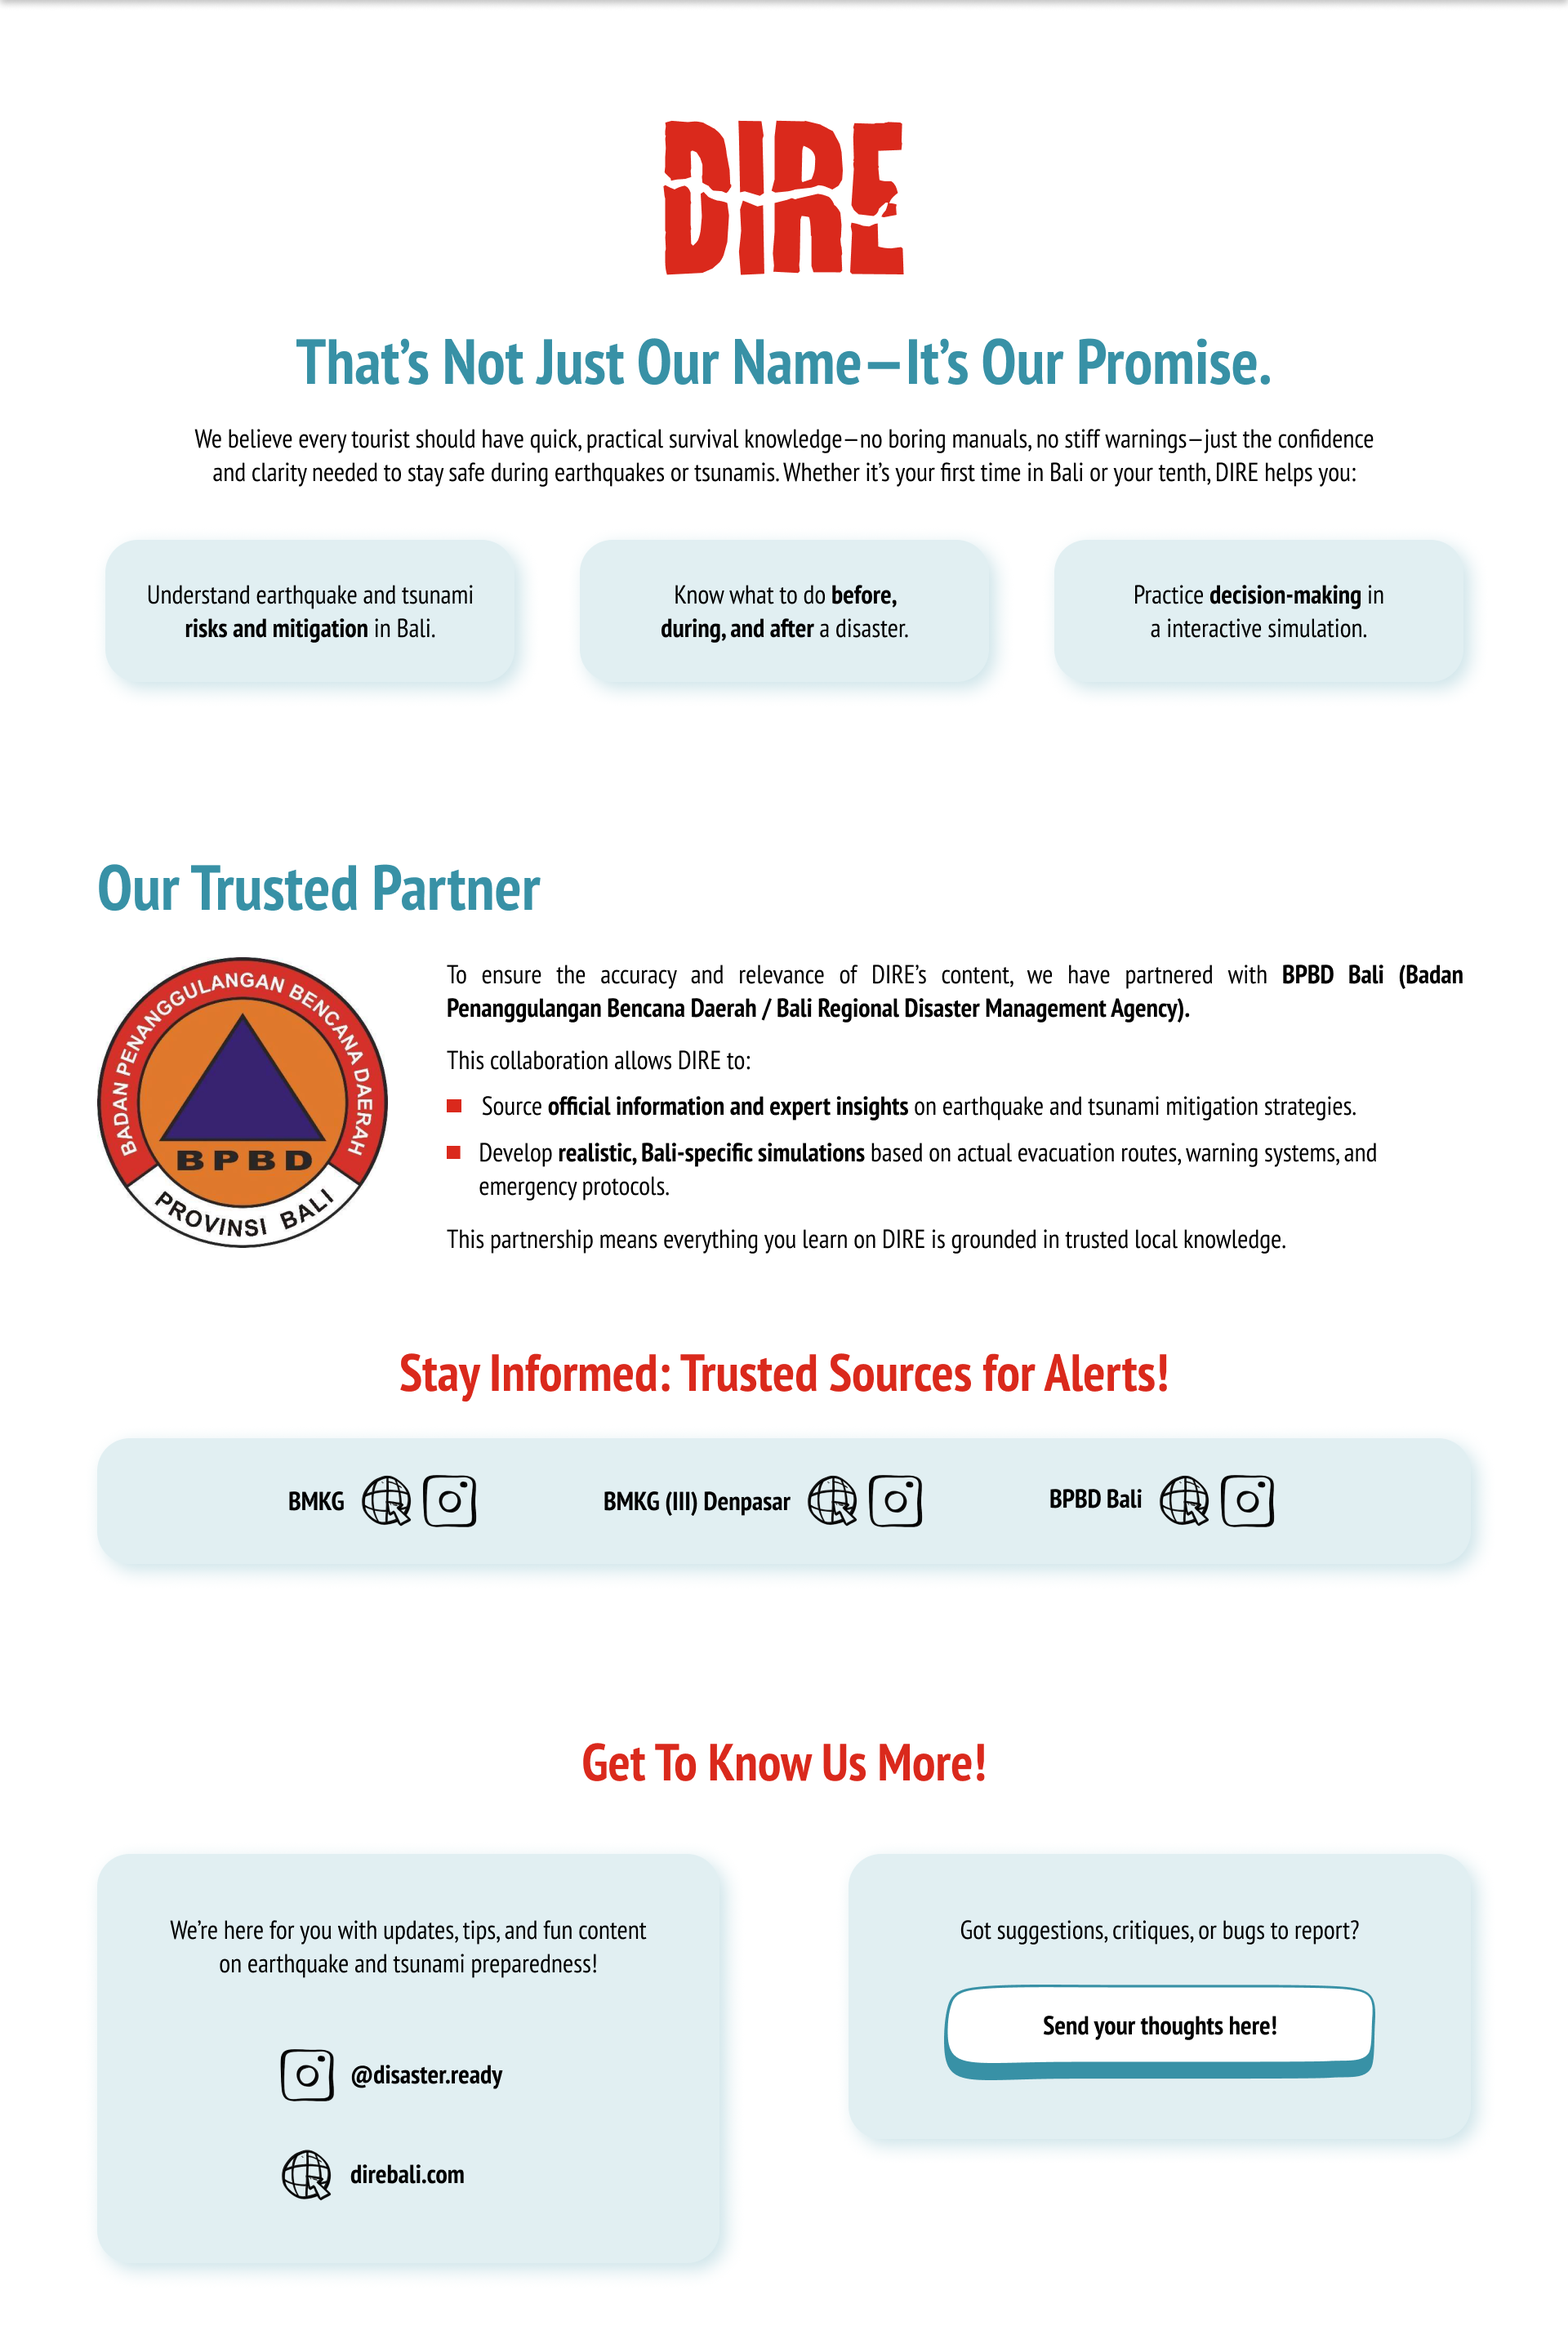
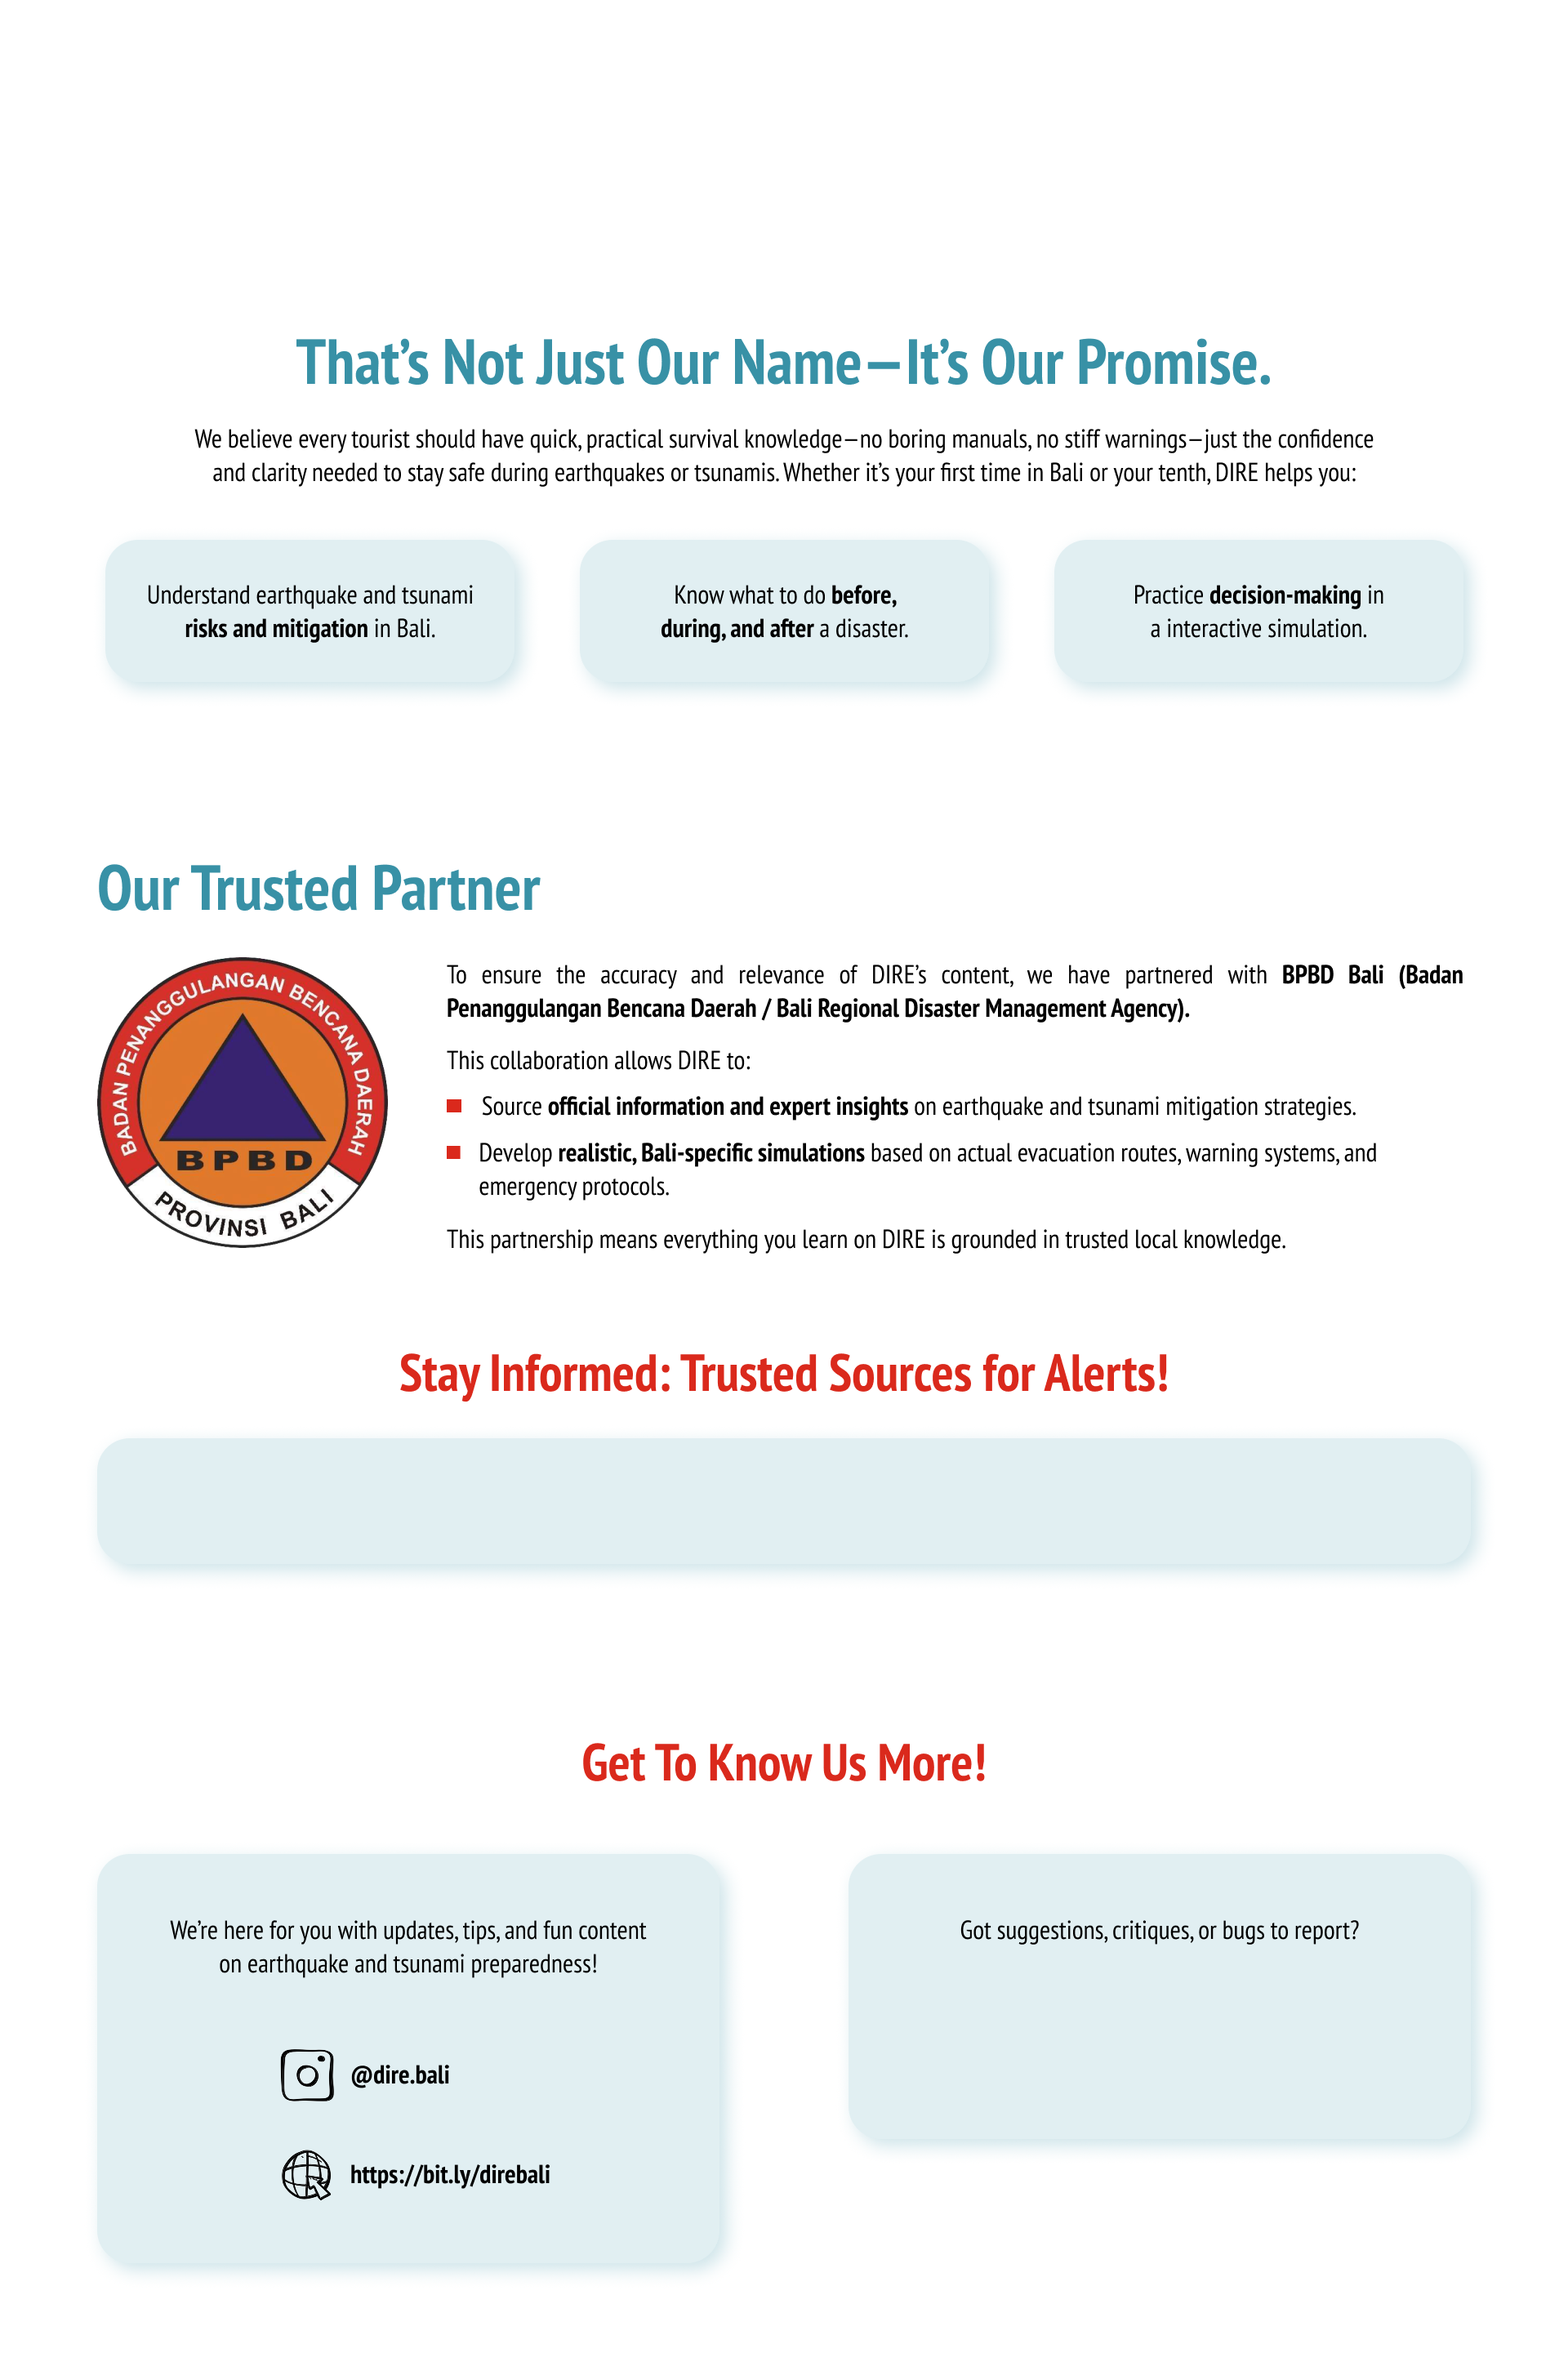
update about page: - linked contacts - clickable buttons

diff --git a/main-v2.html b/main-v2.html
@@ -126,6 +126,20 @@
             width: 18%;
             z-index: 5;
         }
+
+        .report-btn {
+            position: absolute;
+            bottom: 9.5%;
+            right: 12%;
+            width: 28%;
+            z-index: 10;
+            transform: translateY(-50%);
+            transition: transform 0.3s ease;
+        }
+        
+        .report-btn:hover {
+            transform: translateY(-50%) scale(1.05);
+        }
         
         /* Responsive adjustments */
         @media (max-width: 768px) {
@@ -229,26 +243,66 @@
 
         <!-- About Us Section -->
         <section id="about-us" class="section-container w-full relative">
-            <!-- About Content Container with relative positioning -->
+            <!-- About Content Container -->
             <div class="about-content w-full mt-10 lg:-mt-4">
                 <!-- Background Image -->
                 <img src="/assets/LP-About.png" alt="About-Us Page" class="w-full h-auto block">
                 
-                <!-- Logo GIF positioned relative to the about-content container -->
+                <!-- Logo GIF -->
                 <img src="/assets/gif-logo.gif" alt="DIRE Logo Animation" class="logo-gif">
-            </div>
-        </section>
-        
-        <!-- Play Experience Section -->
-        <section id="play-experience" class="section-container w-full relative">
-            <div class="play-container">
-                <!-- Adventr.ai Integration -->
-                <div style="padding-bottom: 56.25%; position: relative; height: 0; overflow: hidden; max-width: 100%;">
-                    <div id="player-container"></div>
-                </div>
-            </div>
-        </section>
-    </div>
+                
+                <!-- Report Button -->
+                <a href="#" class="report-btn block">
+                    <img src="/assets/btn-report.png" alt="Report Button" 
+                        class="w-full transform hover:scale-110 transition-transform duration-300">
+                </a>
+
+        <!-- Contacts Section -->
+                <div class="about-content absolute bottom-[34.5%] w-full px-4">
+                    <div class="flex flex-wrap md:flex-nowrap justify-center items-center text-center gap-3 md:gap-8 lg:gap-12">
+                            
+                            <!-- BMKG -->
+                            <div class="flex items-center gap-2 md:gap-3">
+                                <h2 class="text-xs md:text-md lg:text-xl font-semibold whitespace-nowrap">BMKG</h2>
+                                <div class="flex gap-1 md:gap-2">
+                                    <a href="https://www.bmkg.go.id" target="_blank" class="w-5 h-5 lg:w-12 lg:h-12 flex items-center justify-center">
+                                        <img src="/assets/web-icon.png" alt="BMKG Website" class="w-full h-full object-cover rounded-full">
+                                    </a>
+                                    <a href="https://www.instagram.com/infobmkg/" target="_blank" class="w-5 h-5 lg:w-12 lg:h-12 flex items-center justify-center">
+                                        <img src="/assets/ig-icon.png" alt="BMKG Instagram" class="w-full h-full object-cover rounded-full">
+                                    </a>
+                                </div>
+                            </div>
+
+                            <!-- BMKG (III) Denpasar -->
+                            <div class="flex items-center gap-2 md:gap-3">
+                                <h2 class="text-xs md:text-md lg:text-xl font-semibold whitespace-nowrap">BMKG (III) Denpasar</h2>
+                                <div class="flex gap-1 md:gap-2">
+                                    <a href="https://bbmkg3.bmkg.go.id/" target="_blank" class="w-5 h-5 lg:w-12 lg:h-12 flex items-center justify-center">
+                                        <img src="/assets/web-icon.png" alt="BMKG Denpasar Website" class="w-full h-full object-cover rounded-full">
+                                    </a>
+                                    <a href="https://www.instagram.com/bmkgbali/" target="_blank" class="w-5 h-5 lg:w-12 lg:h-12 flex items-center justify-center">
+                                        <img src="/assets/ig-icon.png" alt="BMKG Denpasar Instagram" class="w-full h-full object-cover rounded-full">
+                                    </a>
+                                </div>
+                            </div>
+
+                            <!-- BPBD Bali -->
+                            <div class="flex items-center gap-2 md:gap-3">
+                                <h2 class="text-xs md:text-md lg:text-xl font-semibold whitespace-nowrap">BPBD Bali</h2>
+                                <div class="flex gap-1 md:gap-2">
+                                    <a href="https://bpbd.baliprov.go.id/" target="_blank" class="w-5 h-5 lg:w-12 lg:h-12 flex items-center justify-center">
+                                        <img src="/assets/web-icon.png" alt="BPBD Bali Website" class="w-full h-full object-cover rounded-full">
+                                    </a>
+                                    <a href="https://www.instagram.com/bpbdbali/" target="_blank" class="w-5 h-5 lg:w-12 lg:h-12 flex items-center justify-center">
+                                        <img src="/assets/ig-icon.png" alt="BPBD Bali Instagram" class="w-full h-full object-cover rounded-full">
+                                    </a>
+                                </div>
+                            </div>
+                        </div>
+                    </div>
+        </div>
+</section>
 
     <!-- Fullscreen Adventr.ai Experience -->
     <div id="fullscreen-experience" class="fullscreen-iframe">
